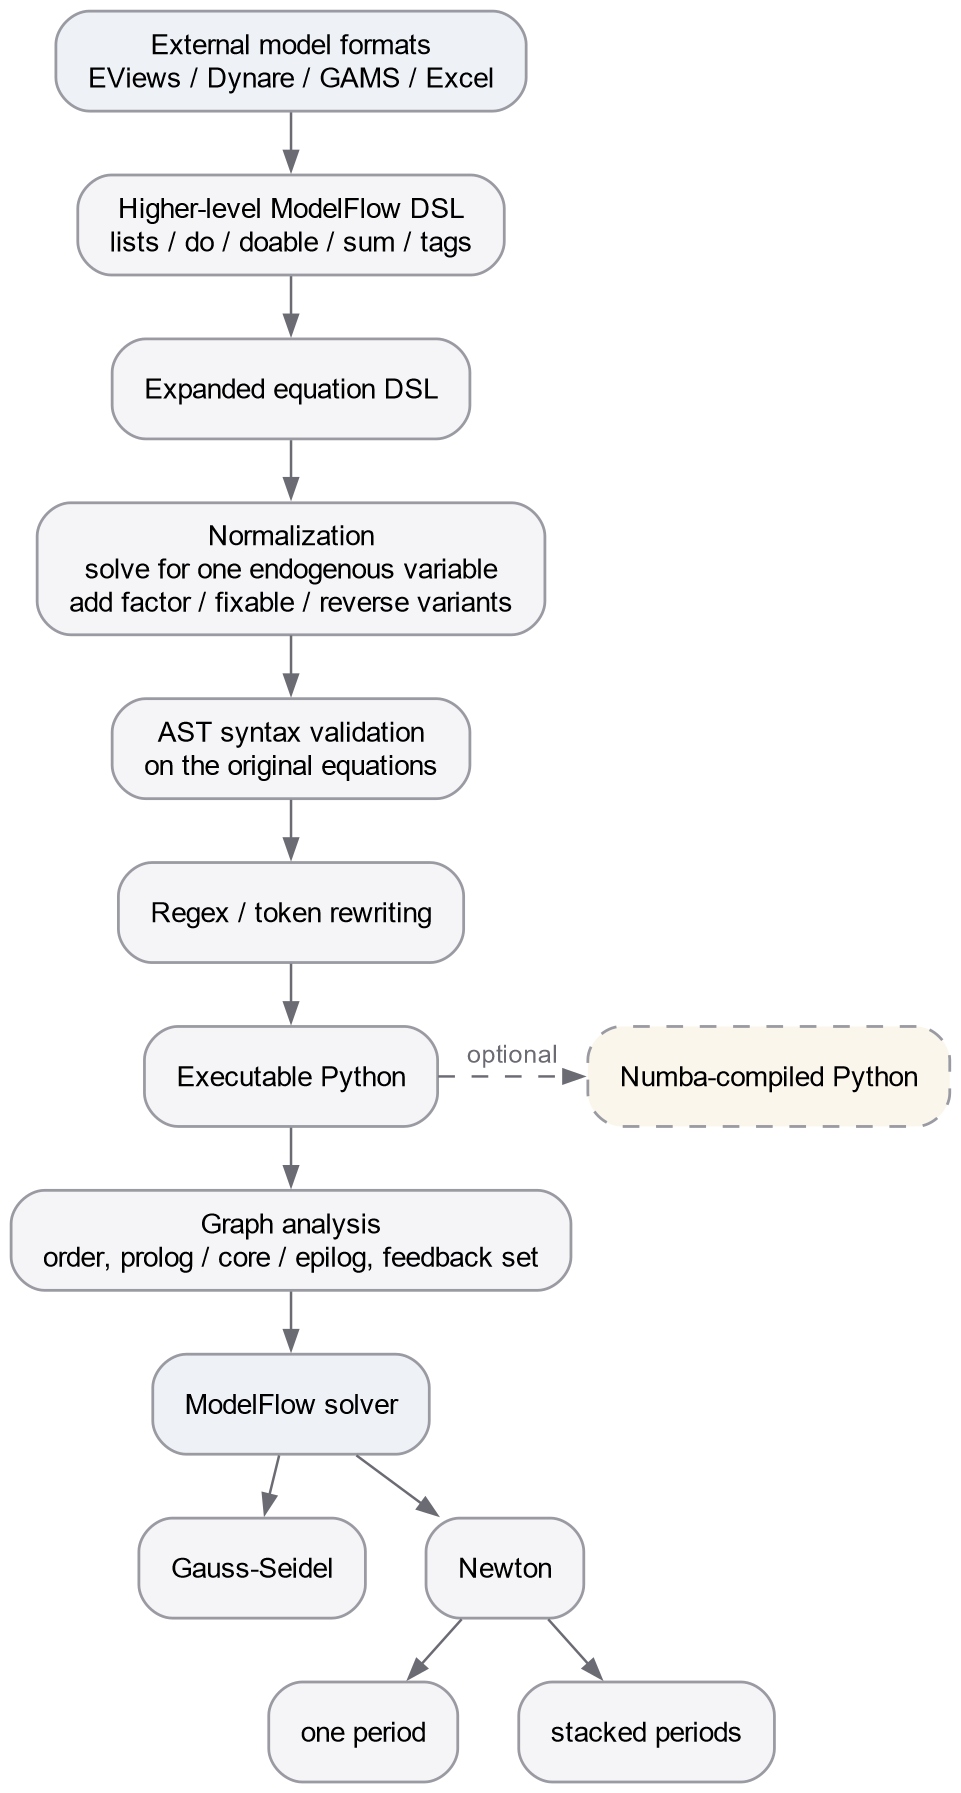
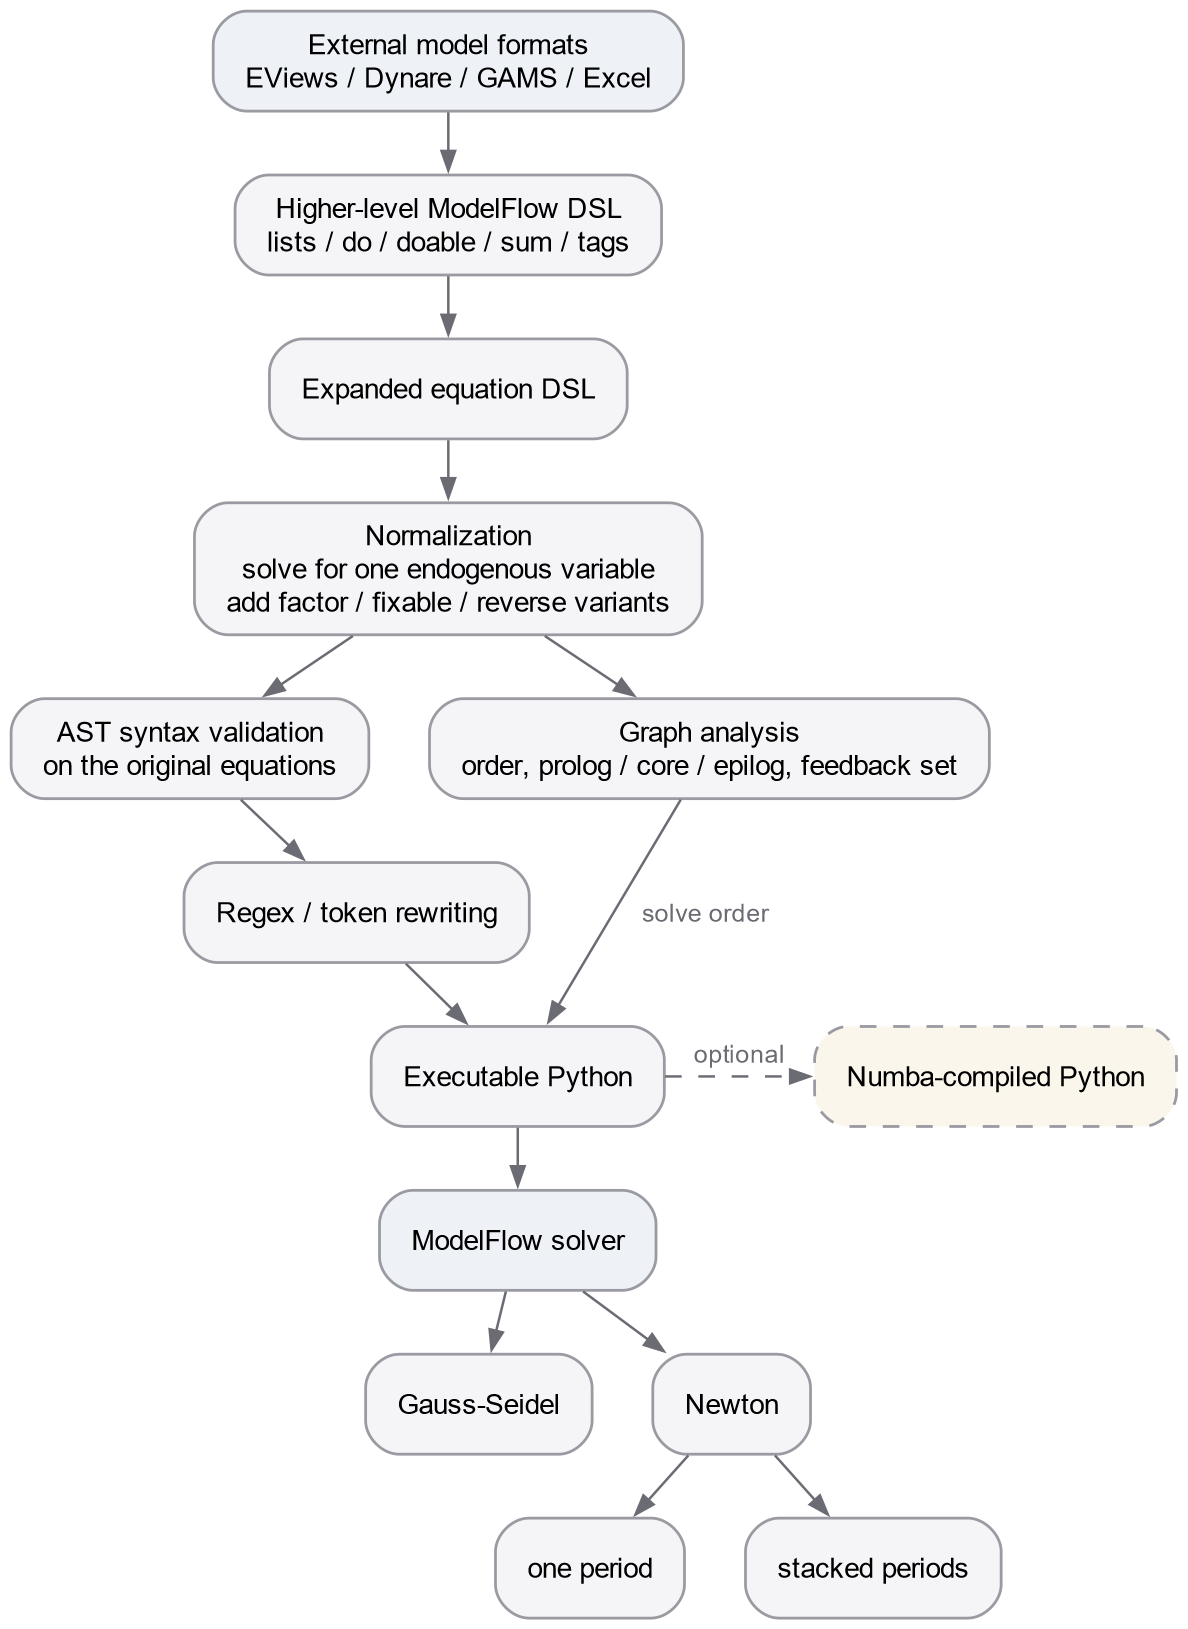
Graph analysis before executable Python in the specification chain
The chain figure now shows graph analysis feeding the generated code
(it sets the solve order); caption, summary and both layer tables updated.

diff --git a/modelflow_specification_to_code.md b/modelflow_specification_to_code.md
@@ -8,7 +8,7 @@ The central principle is:
 
 > **Use Python syntax wherever possible, transform only the notation specific to economic modelling, and delegate the general language machinery to Python and its scientific ecosystem.**
 
-This chapter follows the translation side of the architecture: the ModelFlow DSL and imported model formats, dimensional expansion, normalization, tags and generated variants, AST validation, token rewriting, and execution as Python or Numba-compiled code. It also sets out what the DSL deliberately leaves out, because the user interface around the equations is Python itself. The next chapter, [Model structure and solution](modelflow_structure_and_solution.md), starts from the executable equation system and explains graph ordering, Gauss-Seidel and Newton solution. [Local stability and model dynamics](modelflow_stability.md) then uses the derivative machinery for stability analysis.
+This chapter follows the translation side of the architecture: the ModelFlow DSL and imported model formats, dimensional expansion, normalization, tags and generated variants, AST validation, token rewriting, and execution as Python or Numba-compiled code. It also sets out what the DSL deliberately leaves out, because the user interface around the equations is Python itself. The next chapter, [Model structure and solution](modelflow_structure_and_solution.md), explains the graph analysis of the normalized equations, which sets the order in which the executable code is generated, and then Gauss-Seidel and Newton solution. [Local stability and model dynamics](modelflow_stability.md) then uses the derivative machinery for stability analysis.
 
 The historical development that preceded ModelFlow—MACRO/NASS and PCIM—is described separately in [Historical background](Historic_complete.md).
 
@@ -17,7 +17,7 @@ The historical development that preceded ModelFlow—MACRO/NASS and PCIM—is de
 :width: 78%
 :name: fig-chain
 
-The complete chain. This chapter covers specification through executable code; model ordering and solution are treated in the next chapter.
+The complete chain. The graph analysis of the normalized equations comes before the executable code, because it sets the solve order in which the code is generated. This chapter covers specification through executable code; the graph analysis itself and the solution are treated in the next chapter.
 :::
 
 ---
@@ -468,6 +468,7 @@ The division of labour is:
 | **Normalization** | Isolate the endogenous variable; generate equation variants |
 | **Python AST** | Early syntax validation and error localization |
 | **Regex/token rewriting** | Translation of ModelFlow-specific constructs |
+| **Graph analysis** | Solve order of the generated code: prolog, core, epilog and feedback set; see [Model structure and solution](modelflow_structure_and_solution.md) |
 | **Python parser/compiler** | General expression grammar and compilation |
 | **`exec`** | Execution of generated model code |
 | **Numba (optional)** | Machine-code compilation of the same generated source |
@@ -569,6 +570,7 @@ The continuation of this example—its graph edge, symbolic derivative and Jacob
 | **Equation DSL** | Compact Python-compatible economic equations |
 | **Validation** | Python AST checking against the original equation |
 | **Translation** | Regex and ModelFlow-specific token substitution |
+| **Graph analysis** | Order the normalized equations; sets the order of the generated code |
 | **Python toolchain** | General parsing, compilation and execution |
 | **Numba (optional)** | Machine-code compilation of the generated source |
 | **Runtime diagnostics** | Map execution errors back to the failing economic equation |
